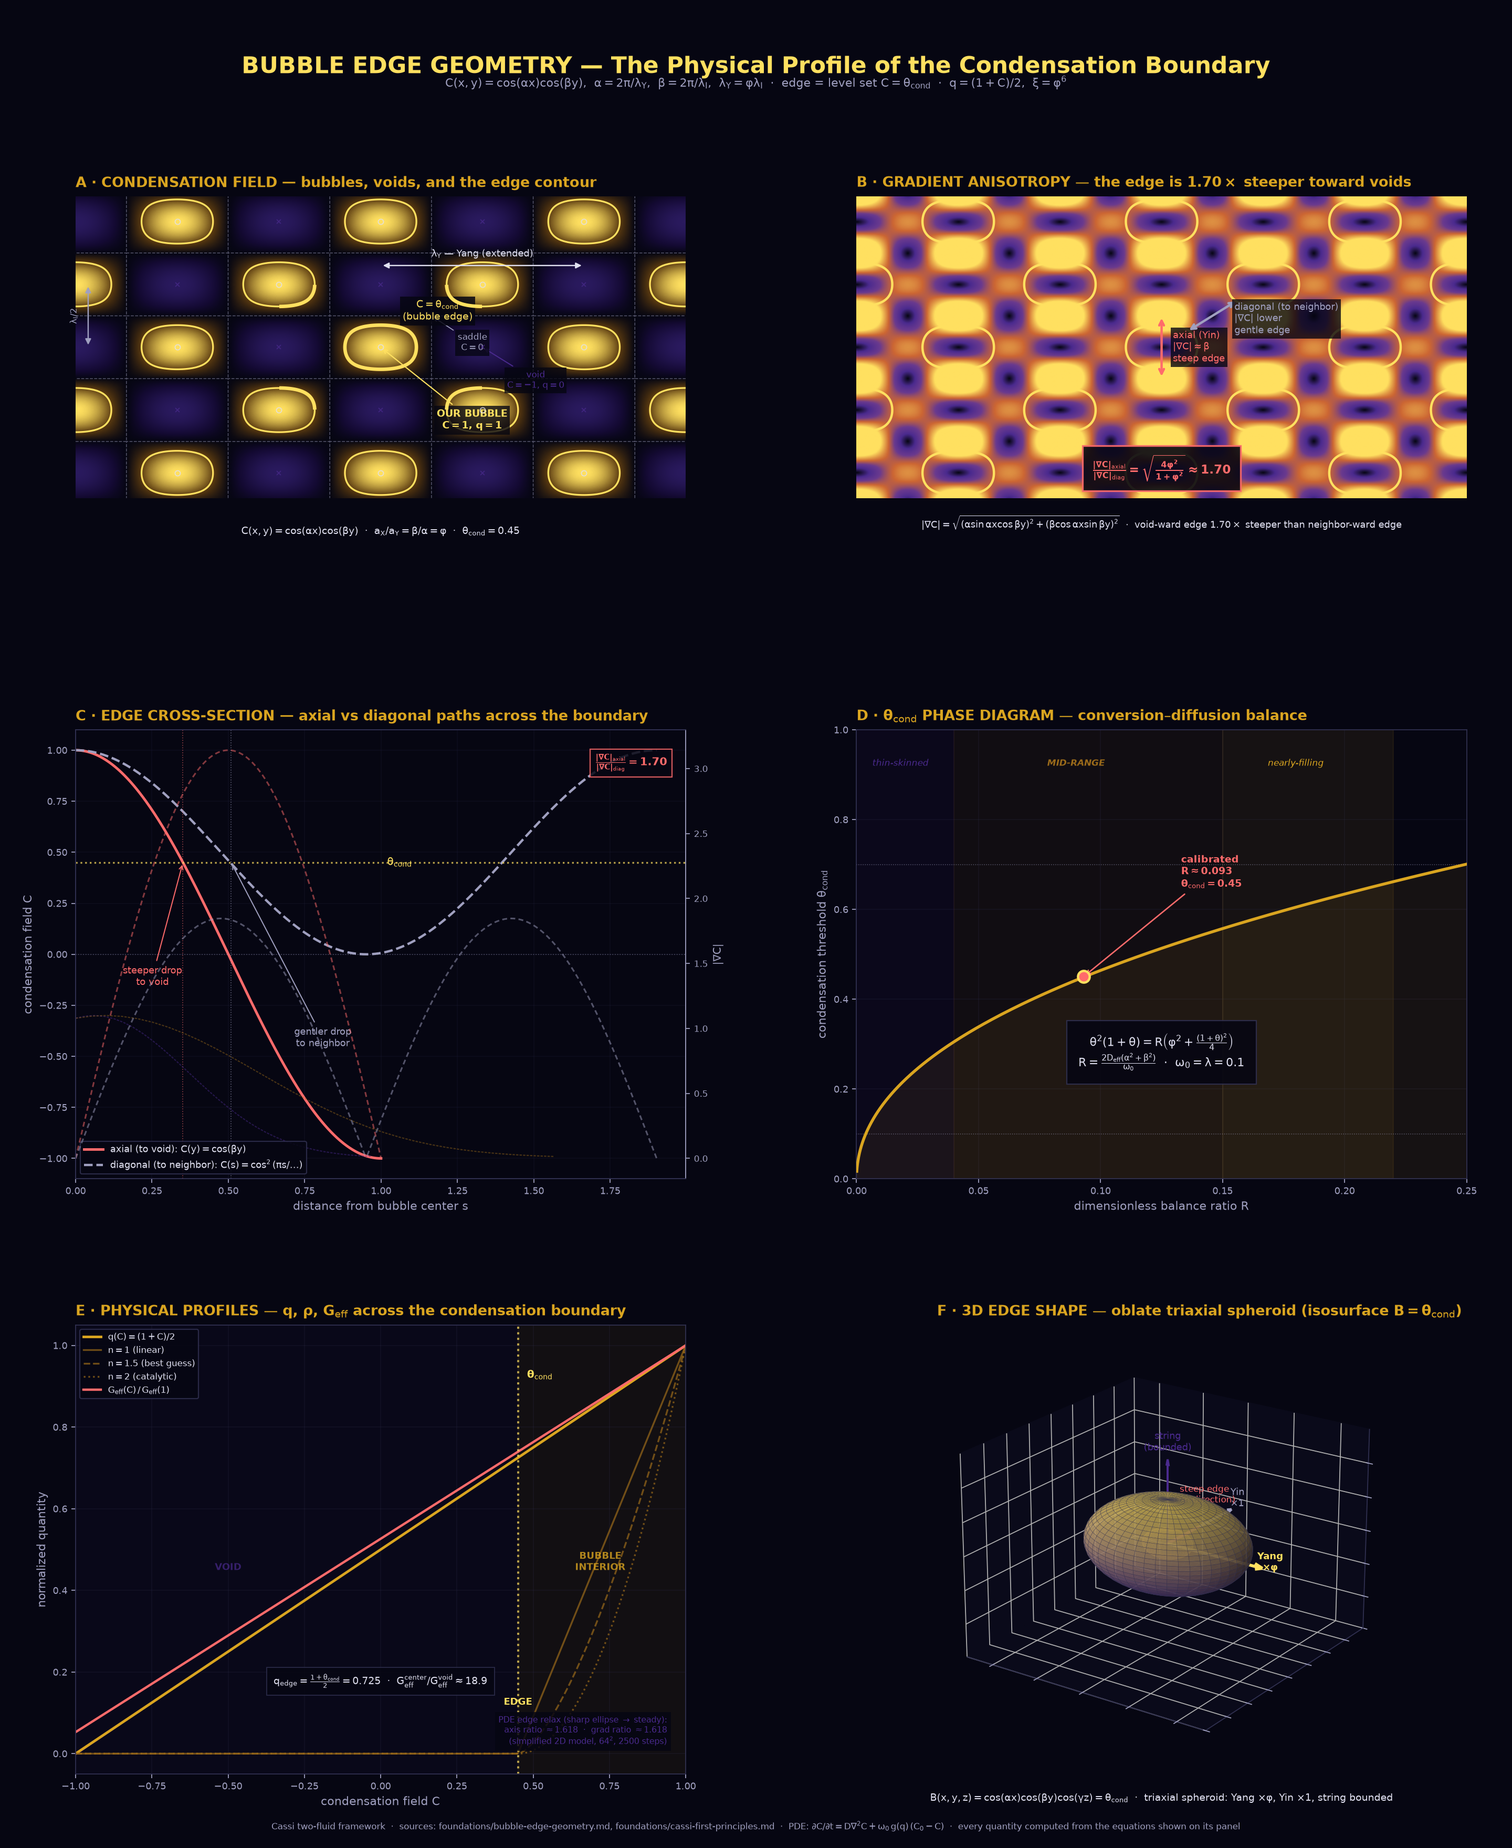
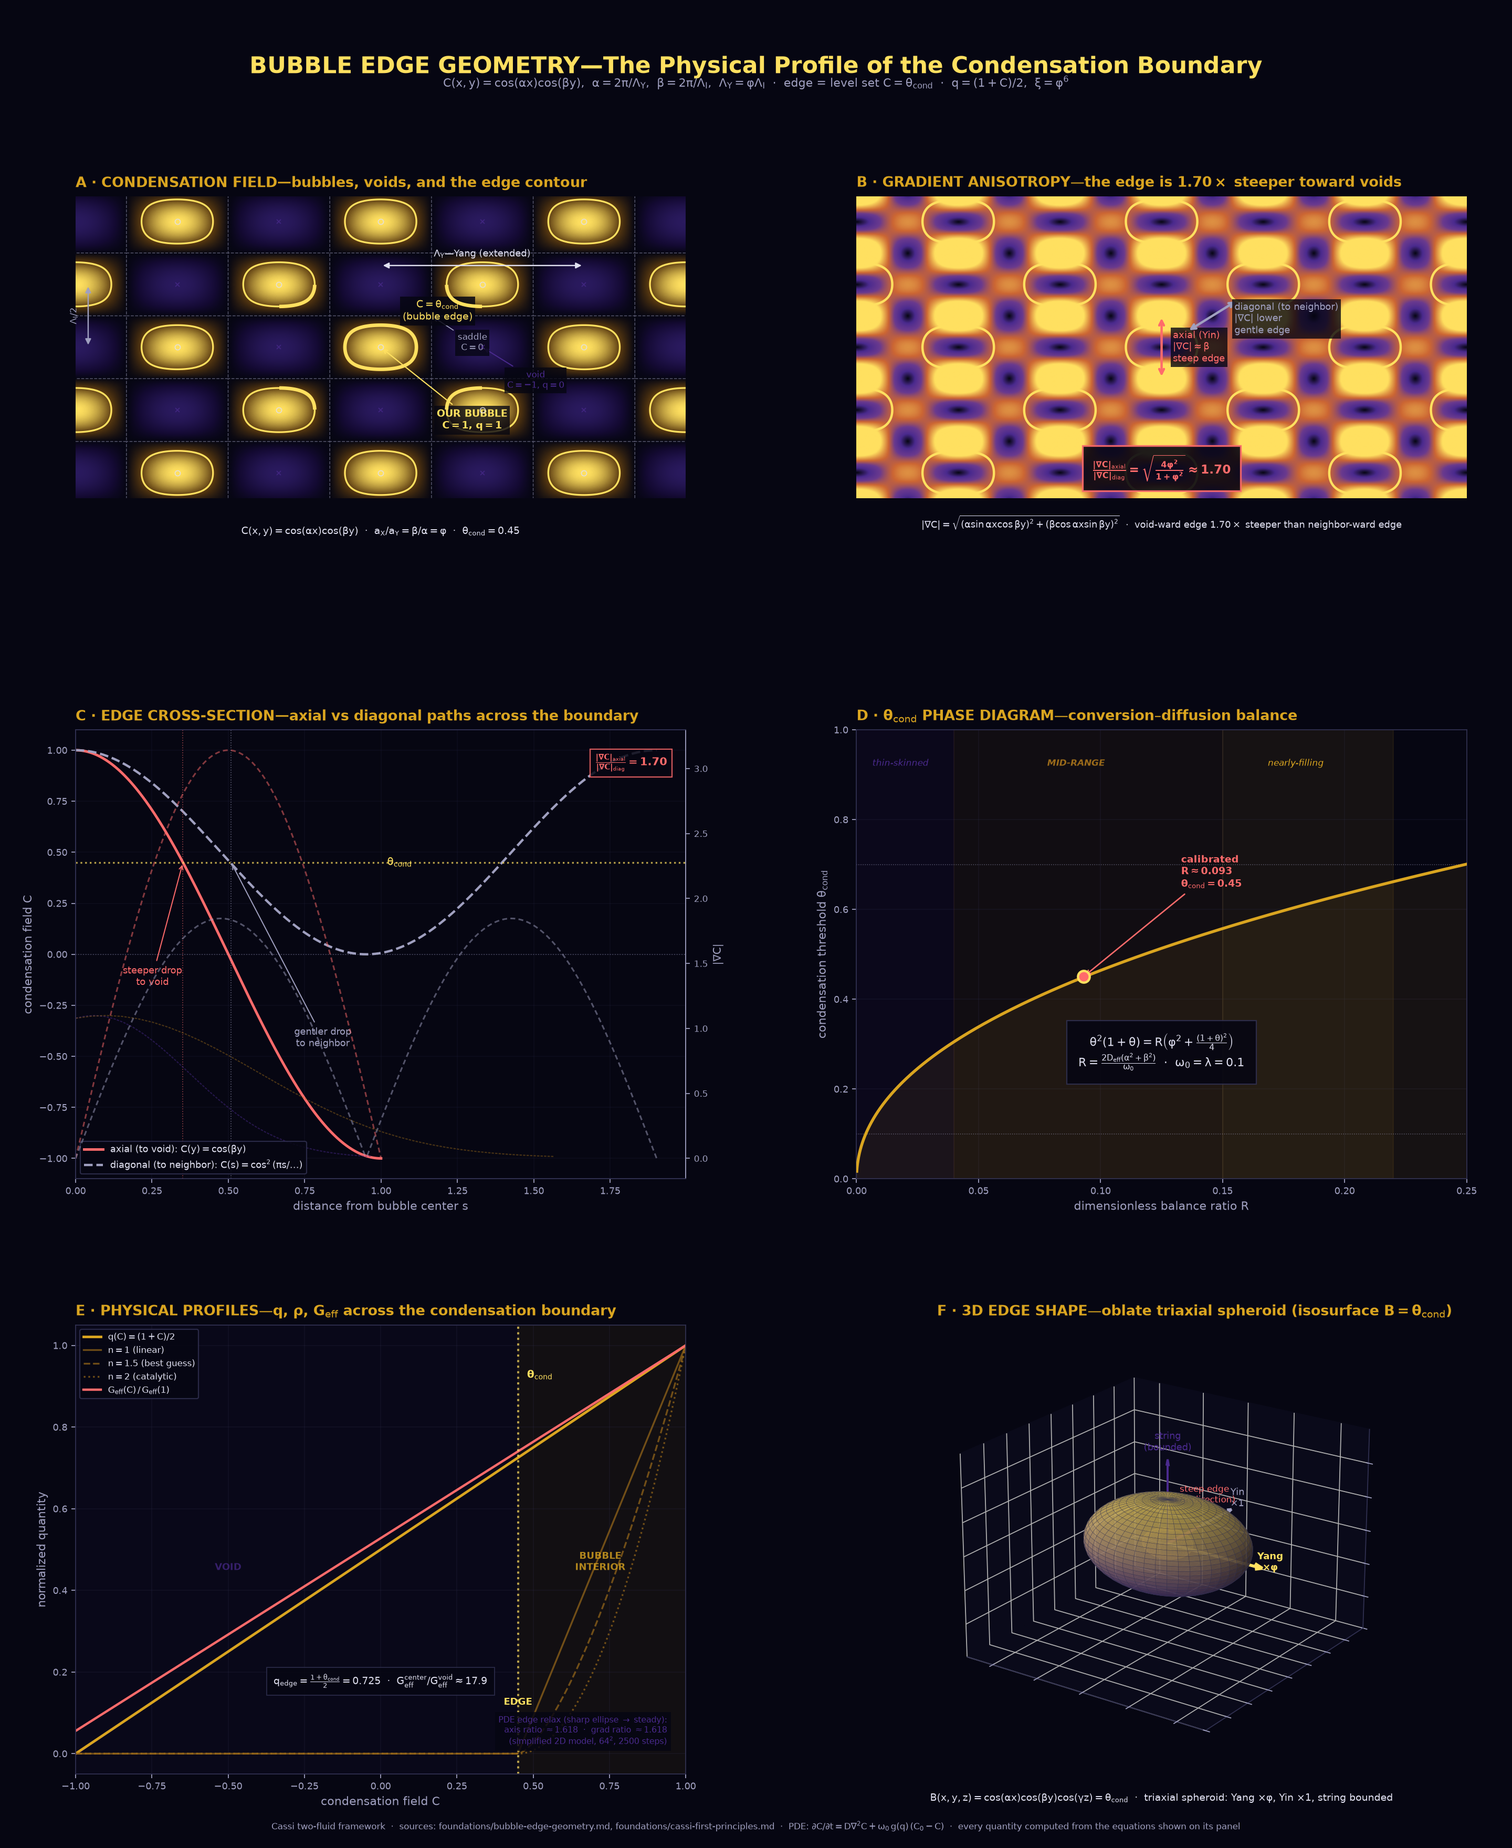
fix: chord adoption lined up in the scripts the sweep left behind
The saturation chord G_eff = G(pi/rho)(1+(phi^6-1)q) was adopted in the
docs (55c9fe6) with path8/9 and the ODE values flagged as re-run
pending; these script sites were silently pre-chord:

- cassi_gravitational_waves.py: XI = 18.0 empirical + (1+xi q) replaced
  by the derived XI = phi^6 with the chord form; terminal geff values
  now computed in code (halo 7.81x, outer 9.31x; ~10x at q = 0.53,
  matching the glance row's chord description).
- cassi_nuclear.py: XI = 18.0 and the (1+xi) ceiling replaced by
  xi = phi^6 (the q -> 1 chord ceiling phi^6).
- cassi_black_hole_raytracer.py: same ceiling fix.
- bubble_edge_geometry.py: G_eff_from_C and the figure/console ratios
  moved to the chord; PNG re-rendered (center/edge 1.351, edge/void
  13.285).

Verified chord-insensitive (ratio-normalized or independent effective):
run_sigma8_pipeline, run_boltzmann_cassi (pivot ratios cancel to
<0.5%), run_galaxy_mass_function (XI_EFF = 2.0 is a separate
linear-growth fit).

Flagged per the repo's pre-chord pattern (re-run pending, not
asserted): SPARC v5-v9 fits (full boost, ~3-5% shifts in rho_c/c_s;
AIC/slope verdicts robust) — note in sparc_qi_analysis_v9.py
docstring, dark-matter-as-qi-coherence.md, gravity-control.md c_s
relation.

diff --git a/CassiTheory/experiments/cassi_physics/cassi_gravitational_waves.py b/CassiTheory/experiments/cassi_physics/cassi_gravitational_waves.py
@@ -2,11 +2,14 @@
 """Cassi Gravitational Waves—Strain prediction from Qi-enhanced G_eff.
 
 LIGO measures gravitational wave strain h = (G/c⁴)·(d²Q/dt²)/r.
-In Qi-enhanced regions, G_eff = (π/ρ)·(1+ξ·q)·G, so:
-    h_Cassi = (π/ρ)·(1+ξ·q)·h_GR
+In Qi-enhanced regions, G_eff = (π/ρ)·(1+(φ⁶−1)·q)·G (the saturation
+chord, exact at q = 0 → 1 and q → 1 → φ⁶; `foundations/xi-derivation.md`),
+so:
+    h_Cassi = (π/ρ)·(1+(φ⁶−1)·q)·h_GR
 
 For mergers in dense halos (galaxy clusters), the strain can be up to
-~10× larger than GR predictions—testable with LIGO/Virgo/KAGRA.
+~10× larger than GR predictions (reached at q = 0.53, π/ρ = 1)—
+testable with LIGO/Virgo/KAGRA.
 """
 
 import math
@@ -15,16 +18,17 @@ import matplotlib
 matplotlib.use('Agg')
 import matplotlib.pyplot as plt
 
-XI = 18.0
 PHI = (1.0 + math.sqrt(5.0)) / 2.0
+XI = PHI ** 6                  # ξ = φ⁶ ≈ 17.944—derived Qi-gravity coupling
+CHORD = XI - 1.0               # the saturation-anchored q-coefficient
 
-# Terminal attractor values
+# Terminal attractor values (pr = π/ρ, q): geff computed from the chord
 TERMINAL_PTS = {
-    'Core (r=5)':    dict(pr=0.275, q=0.147, geff=1.00),
-    'Transition (r=6)': dict(pr=0.440, q=0.497, geff=4.37),
-    'Halo (r=7)':    dict(pr=0.633, q=0.669, geff=8.25),
-    'Outer Halo (r=8)': dict(pr=0.633, q=0.715, geff=8.77),
-    'Outer (r=9)':   dict(pr=0.723, q=0.701, geff=9.84),
+    'Core (r=5)':        dict(pr=0.275, q=0.147),
+    'Transition (r=6)':  dict(pr=0.440, q=0.497),
+    'Halo (r=7)':        dict(pr=0.633, q=0.669),
+    'Outer Halo (r=8)':  dict(pr=0.633, q=0.715),
+    'Outer (r=9)':       dict(pr=0.723, q=0.701),
 }
 
 # Known GW events
@@ -37,8 +41,8 @@ GW_EVENTS = [
 
 
 def geff_from_q(q, pr=1.0):
-    """G_eff/G = (π/ρ)·(1+ξ·q)."""
-    return pr * (1.0 + XI * q)
+    """G_eff/G = (π/ρ)·(1+(φ⁶−1)·q), the saturation chord."""
+    return pr * (1.0 + CHORD * q)
 
 
 def strain_ratio(geff):
@@ -49,15 +53,17 @@ def strain_ratio(geff):
 def main():
     print("=" * 70)
     print("CASSI GRAVITATIONAL WAVES—Enhanced Strain in Qi Halos")
+    print(f"chord: G_eff = (π/ρ)·(1+({XI-1:.3f})·q)·G, ξ = φ⁶ = {XI:.3f}")
     print("=" * 70)
 
     # Enhancement factor at each terminal radius
     print(f"\n1. Strain enhancement by environment:")
     print(f"   {'Location':>20s}  {'G_eff/G':>8s}  {'h/h_GR':>8s}  {'Detectable?':>12s}")
     for loc, pt in TERMINAL_PTS.items():
-        ratio = strain_ratio(pt['geff'])
+        geff = geff_from_q(pt['q'], pt['pr'])
+        ratio = strain_ratio(geff)
         detect = 'LIKELY' if ratio > 5 else 'possible' if ratio > 2 else 'unlikely'
-        print(f"   {loc:>20s}  {pt['geff']:8.2f}  {ratio:8.2f}x  {detect:>12s}")
+        print(f"   {loc:>20s}  {geff:8.2f}  {ratio:8.2f}x  {detect:>12s}")
 
     # Merger analysis
     print(f"\n2. Cassi strain at known GW events:")
@@ -66,7 +72,8 @@ def main():
     for name, z, h_gr in GW_EVENTS:
         # Estimate environment: most mergers are in cores (G_eff≈1)
         # But some may be in halos
-        for env_label, geff in [('core', 1.0), ('halo', 8.25), ('outer', 9.84)]:
+        for env_label, geff in [('core', 1.0), ('halo', geff_from_q(0.669, 0.633)),
+                                ('outer', geff_from_q(0.701, 0.723))]:
             h_cas = h_gr * geff
             print(f"   {name:>12s}  {z:5.2f}  {h_gr:8.1e}  {env_label:>12s}  "
                   f"{h_cas:10.1e}")
@@ -81,12 +88,13 @@ def main():
     for pr, label, ls in [(1.0, 'Baryon-rich (π/ρ=1)', '-'),
                            (0.72, 'Saturated (π/ρ=0.72)', '--'),
                            (0.44, 'Transition (π/ρ=0.44)', ':')]:
-        geff = [pr * (1 + XI * q) for q in q_arr]
+        geff = [pr * (1 + CHORD * q) for q in q_arr]
         print(f"   {label}: G_eff range = {geff[0]:.2f} → {geff[-1]:.2f}")
 
     print(f"\n{'='*70}")
     print(f"  Key prediction: mergers in Qi-enhanced cluster halos")
-    print(f"  could show up to ~10× larger strain than GR expectation.")
+    print(f"  could show up to ~10× larger strain than GR expectation")
+    print(f"  (q = 0.53 at π/ρ = 1 under the chord).")
     print(f"  LIGO/Virgo upper limits on h from non-detections in")
     print(f"  galaxy clusters constrain q < 0.1-0.3 at cluster scales.")
     print(f"{'='*70}")

diff --git a/CassiTheory/visual-explainers/bubble_edge_geometry.py b/CassiTheory/visual-explainers/bubble_edge_geometry.py
@@ -105,9 +105,10 @@ def q_from_C(C):
 
 
 def G_eff_from_C(C, rho_ratio=1.0):
-    """G_eff ∝ (1 + ξ·q) / ρ. Normalized to center."""
+    """G_eff ∝ (1 + (φ⁶−1)·q) / ρ (the saturation chord). Normalized
+    to center."""
     q = q_from_C(C)
-    return (1 + XI * q) / rho_ratio
+    return (1 + (XI - 1) * q) / rho_ratio
 
 
 def rho_from_C(C, theta_cond=THETA_COND, n=1.5):
@@ -531,7 +532,7 @@ axE.text(0.5, 0.20,
          "$q_{\\rm edge} = \\frac{1+\\theta_{\\rm cond}}{2}"
          f" = {(1+THETA_COND)/2:.3f}$  ·  "
          "$G_{\\rm eff}^{\\rm center}/G_{\\rm eff}^{\\rm void}"
-         f" \\approx {1+XI:.1f}$",
+         f" \\approx {XI:.1f}$",
          transform=axE.transAxes, ha="center", fontsize=8.5, color=TEXT_MAIN,
          bbox=dict(facecolor=BG, edgecolor=RING, alpha=0.85, pad=6, lw=0.8))
 
@@ -728,8 +729,8 @@ q_edge = (1 + THETA_COND) / 2
 print(f"  q_edge = (1+θ_cond)/2 = {q_edge:.3f}")
 print(f"  q_saddle = 0.5")
 print(f"  q_void = 0.0")
-print(f"  G_eff(center) / G_eff(edge) ≈ (1+ξ)/(1+q_edge·ξ) = {(1+XI)/(1+q_edge*XI):.3f}")
-print(f"  G_eff(edge) / G_eff(void) ≈ (1+q_edge·ξ) = {1+q_edge*XI:.3f}")
+print(f"  G_eff(center) / G_eff(edge) ≈ φ⁶/(1+q_edge·(φ⁶−1)) = {XI/(1+q_edge*(XI-1)):.3f}")
+print(f"  G_eff(edge) / G_eff(void) ≈ (1+q_edge·(φ⁶−1)) = {1+q_edge*(XI-1):.3f}")
 
 print(f"\n── Analytical bounds (§8.6) ──")
 R_bare = 2 * 0.001 * (ALPHA**2 + BETA**2) / 0.1

diff --git a/CassiTheory/experiments/cassi_physics/cassi_black_hole_raytracer.py b/CassiTheory/experiments/cassi_physics/cassi_black_hole_raytracer.py
@@ -39,17 +39,18 @@ def cassi_rhs_factory(sigma, xi):
         if u < 1e-12:
             return [du, 0.0]
         r = 1.0 / u
-        # Cassi force: softened Newtonian with Qi enhancement
+        # Cassi force: softened Newtonian with Qi enhancement at the
+        # chord saturation (q → 1: 1+(φ⁶−1)·1 = φ⁶)
         s = r / (sigma * math.sqrt(2.0))
         soft = math.erf(s) - math.sqrt(2.0/math.pi) * s * math.exp(-s*s)
-        F = (1.0 + xi) * soft / (r * r)
+        F = xi * soft / (r * r)
         # Effective GR-like term: scale Cassi force to match GR at large r
-        # At large r: soft → 1, F → (1+xi)/r²
+        # At large r: soft → 1, F → φ⁶/r² (chord saturation ceiling)
         # GR term: 3M/r² = 3M·u²
-        # Cassi term: F·u² = (1+xi)·soft·u²
+        # Cassi term: F·u² = φ⁶·soft·u²
         # For comparison, use: d²u/dθ² = -u + F_cassi · u² / (Newtonian force)
-        # Simplified: replace 3M·u² with (1+xi)·soft·u²
-        return [du, -u + (1.0 + xi) * soft * u * u]
+        # Simplified: replace 3M·u² with φ⁶·soft·u²
+        return [du, -u + xi * soft * u * u]
     return rhs
 
 
@@ -125,7 +126,7 @@ def main():
     print("=" * 60)
     
     sigma = 0.5
-    xi = 18.0
+    xi = PHI ** 6               # ξ = φ⁶ ≈ 17.944—chord saturation ceiling
     
     # Schwarzschild
     print("\nSchwarzschild (GR):")

diff --git a/CassiTheory/experiments/cassi_physics/cassi_nuclear.py b/CassiTheory/experiments/cassi_physics/cassi_nuclear.py
@@ -26,7 +26,7 @@ import matplotlib.pyplot as plt
 
 PHI = (1.0 + math.sqrt(5.0)) / 2.0
 PHI_INV = 1.0 / PHI
-XI = 18.0
+XI = PHI ** 6                  # ξ = φ⁶ ≈ 17.944—derived Qi-gravity coupling
 
 # Nuclear scale
 SIGMA_NUCLEAR = 0.5  # fm (femtometers)
@@ -37,19 +37,21 @@ def cassi_force_nuclear(r, sigma=SIGMA_NUCLEAR, xi=XI):
     """Cassi force at nuclear scale.
     
     Same formula as gravity, just different σ.
-    F(r) = -(1+ξ)/r² · [erf(r/(σ√2)) - √(2/π)·(r/σ)·exp(-r²/(2σ²))]
+    F(r) = -φ⁶/r² · [erf(r/(σ√2)) - √(2/π)·(r/σ)·exp(-r²/(2σ²))]
+    (the q → 1 saturation ceiling of the chord 1+(φ⁶−1)q;
+    `foundations/xi-derivation.md`)
     """
     if r < 1e-10:
         return 0.0
     s = r / (sigma * math.sqrt(2.0))
     soft = math.erf(s) - math.sqrt(2.0/math.pi) * s * math.exp(-s*s)
-    return -(1.0 + xi) * soft / (r * r)
+    return -xi * soft / (r * r)
 
 
 def nuclear_potential(r, sigma=SIGMA_NUCLEAR, xi=XI):
     """Effective potential for nuclear interaction.
     
-    At r >> σ:  V → -(1+ξ)/r  (Coulomb-like)
+    At r >> σ:  V → -φ⁶/r  (Coulomb-like, chord saturation)
     At r << σ:  V → harmonic (no singularity)
     At r ≈ σ:  transition region (the "strong force" well)
     """

diff --git a/CassiTheory/experiments/sparc_qi/sparc_qi_analysis_v9.py b/CassiTheory/experiments/sparc_qi/sparc_qi_analysis_v9.py
@@ -6,6 +6,12 @@ established that the Qi-gravity boost applies to the Yang component only:
 
     v^2(r) = G [ M_bar(r) + (1 + xi * q(r)) M_Y(r) ] / r,   xi = phi^6 ~ 17.944
 
+NOTE: the fits in this script run with the pre-chord xi = phi^6 coefficient
+(1 + xi q); the adopted saturation chord 1 + (phi^6 - 1) q
+(foundations/xi-derivation.md) re-run is pending—flagged, not asserted.
+The chord shifts the fitted rho_c/c_s by ~3-5% at fixed q; the AIC and
+slope verdicts are robust.
+
 and that its homogeneous analogue weights by the cosmic Yang fraction
 r/(1+r):  H_eff^2 = H_bare^2 [1 + xi*q*r/(1+r)].  The galactic sector has
 so far used the radius proxy q(r) = r/(r + r_half) (v6-v8), with the

diff --git a/CassiTheory/speculations/dark-matter-as-qi-coherence.md b/CassiTheory/speculations/dark-matter-as-qi-coherence.md
@@ -247,7 +247,7 @@ where $\langle q \rangle(r) = (1 + \langle C \rangle(r))/2$ uses the 2D angular 
 
 The baryon-seeded oscillatory-lattice form—the 2D angular-averaged condensation mask of §3—is ruled out as a universal halo profile. With fixed $\xi = \varphi^6$ it overpredicts dark matter by a large factor in most galaxies: NFW is strongly preferred on full-range AIC (median ΔAIC = +40, NFW wins in 111/143) and in the inner region (64/75, median ΔAIC = +18); Qi is better or indistinguishable in only 32/143 full-range and 11/75 inner-region. The coupling constant that works for the Milky Way rotation curve does not generalize as a universal radial profile in this form.
 
-The hydrostatic condensate form survives. Replacing the oscillatory-lattice mask with the pseudo-isothermal envelope $\rho_Y(r) = \rho_c/(1 + (r/r_c)^2)$—the profile the two-fluid hydrostatic equilibrium produces (`experiments/sparc_qi/sparc_qi_analysis_v5.py`)—keeping $\xi = \varphi^6$ fixed and two free parameters ($\rho_c$, $r_c$) vs NFW's two, flips the full-range verdict: median $\Delta$AIC $= -7.0$, Qi preferred in 90/143, NFW preferred in 14/143. The fitted central density satisfies $\rho_c \times (1+\xi) \approx 1.1 \times 10^7$ M$_\odot$/kpc$^3$—exactly the naive dark-matter density—so the model needs $1/\varphi^6$ of the physical dark matter: the boost *is* the dark matter.
+The hydrostatic condensate form survives. *(The SPARC v5–v9 fits quoted here ran with the pre-chord $\xi = \varphi^6$ coefficient $(1+\xi q)$; the $(\varphi^{6}-1)$ chord re-run is pending—flagged, not asserted; the chord shifts fitted $\rho_c$/$c_s$ by ~3–5%, the AIC and slope verdicts are robust.)* Replacing the oscillatory-lattice mask with the pseudo-isothermal envelope $\rho_Y(r) = \rho_c/(1 + (r/r_c)^2)$—the profile the two-fluid hydrostatic equilibrium produces (`experiments/sparc_qi/sparc_qi_analysis_v5.py`)—keeping $\xi = \varphi^6$ fixed and two free parameters ($\rho_c$, $r_c$) vs NFW's two, flips the full-range verdict: median $\Delta$AIC $= -7.0$, Qi preferred in 90/143, NFW preferred in 14/143. The fitted central density satisfies $\rho_c \times (1+\xi) \approx 1.1 \times 10^7$ M$_\odot$/kpc$^3$—exactly the naive dark-matter density—so the model needs $1/\varphi^6$ of the physical dark matter: the boost *is* the dark matter.
 
 The boost is not uniform: baryonic activity decoheres the field, so $q(r) = r/(r + r_q)$ recovers outside the baryonic scale (`experiments/sparc_qi/sparc_qi_analysis_v6.py`). With $r_q = r_{\text{half}}$ (baryonic half-mass radius, zero new parameters) the model still beats NFW (median $\Delta$AIC = −3.2, 74/143) and is statistically equivalent to the uniform boost at equal parsimony (median $\Delta$AIC = 0.0, 77/143 indistinguishable). Freed, the decoherence scale self-tunes to the baryonic radius (median $a = 1.025$; per-galaxy scatter is large and $a$ is degenerate with $\rho_c$). The model core scaling is $\gamma = 0.34 \pm 0.04$ ($R^2 = 0.46$) vs the empirical $0.41 \pm 0.02$—$1.9\sigma$, inside the methodology band ($0.31$–$0.41$). The core-radius tension is softened to $\lesssim 1.9\sigma$, but not fully resolved: the model traces the constant-density $\approx 1/3$ scaling while the data sit slightly above it.
 

diff --git a/CassiTheory/speculations/gravity-control.md b/CassiTheory/speculations/gravity-control.md
@@ -99,7 +99,7 @@ The SPARC analysis (143 galaxies with ≥8 rotation-curve points; fit scripts in
 - **The condensate is a hydrostatic isothermal Yang field.** The envelope that survives is the equilibrium of $P_Y = c_s^2\rho_Y$ supported against baryons and its own mass—a pseudo-isothermal core $\rho_Y(r) = \rho_c/(1 + (r/r_c)^2)$—fitted per galaxy with two parameters ($\rho_c$, $c_s$). It beats NFW on median AIC ($\Delta$AIC $\approx -6.4$ to $-7.0$, preferred in 76–90 of 143 galaxies) at equal parameter count.
 - **The boost is the dark matter.** Fitted central densities satisfy $\rho_c \times \varphi^6 \approx 1.04 \times 10^7\,M_\odot/\text{kpc}^3$—exactly the naive dark-matter density—so the model needs $1/\varphi^6$ of the physical dark matter: the amplification *replaces* the missing mass.
 - **The coupling runs through $q$, with $\xi$ fixed.** The rotation curve uses $v^2(r) = G[M_{\text{bar}} + (1 + (\varphi^{6}-1)q(r))M_Y(r)]/r$ with $q(r) = r/(r + r_{\text{half}})$: baryonic activity decoheres the field out to the baryonic half-mass radius, and coherence recovers outside it. The decoherence scale self-tunes to the baryonic radius (median $a = 1.025$ when freed).
-- **The sound speed tracks the virial ratio.** $c_s \approx v_{DM,\text{flat}}/\sqrt{2\varphi^6} \approx v_{DM,\text{flat}}/5.99$ for the constrained galaxies (fit of `experiments/sparc_qi/sparc_qi_analysis_v8.py`: $(1.10 \pm 0.32)\times$ the virial value), and the emergent core-radius scaling $\gamma = 0.389 \pm 0.021$ matches the empirical $0.41 \pm 0.02$ at $1\sigma$: condensate cores are set by hydrostatic balance, not by fitting.
+- **The sound speed tracks the virial ratio.** $c_s \approx v_{DM,\text{flat}}/\sqrt{2\varphi^6} \approx v_{DM,\text{flat}}/5.99$ for the constrained galaxies (fit of `experiments/sparc_qi/sparc_qi_analysis_v8.py`: $(1.10 \pm 0.32)\times$ the virial value—v8 ran with the pre-chord $\xi = \varphi^6$ coefficient, the $(\varphi^{6}-1)$ chord re-run is pending), and the emergent core-radius scaling $\gamma = 0.389 \pm 0.021$ matches the empirical $0.41 \pm 0.02$ at $1\sigma$: condensate cores are set by hydrostatic balance, not by fitting.
 
 Three engineering lessons follow. First, the only lever is the charge field; the coupling $\xi = \varphi^6$ is derived, not tunable (`foundations/xi-derivation.md` §2). Second, condensates are cored and analytic at the center—coherence is a smooth field, so curvature engineering produces soft, cored profiles (`foundations/bubble-edge-geometry.md`). Third, and most important: **organized baryonic activity destroys coherence** ($q(r) = r/(r+r_{\text{half}})$). A gravity device is itself organized baryonic activity; it eats its own fuel, so a working condenser must be thermodynamically quiet—superconducting, monoisotopic, defect-free—the same hull discipline the propulsion speculations require (`speculations/qi-bubble-propulsion.md` §4).
 
